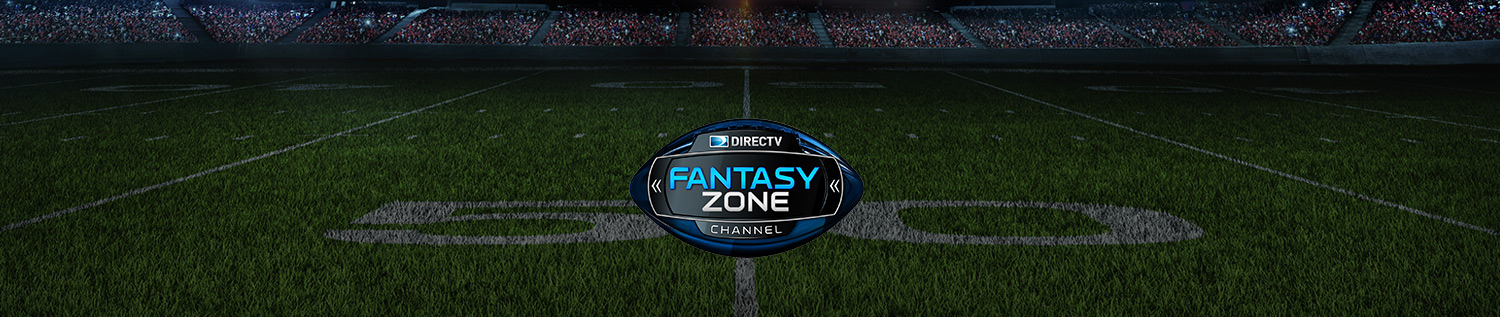
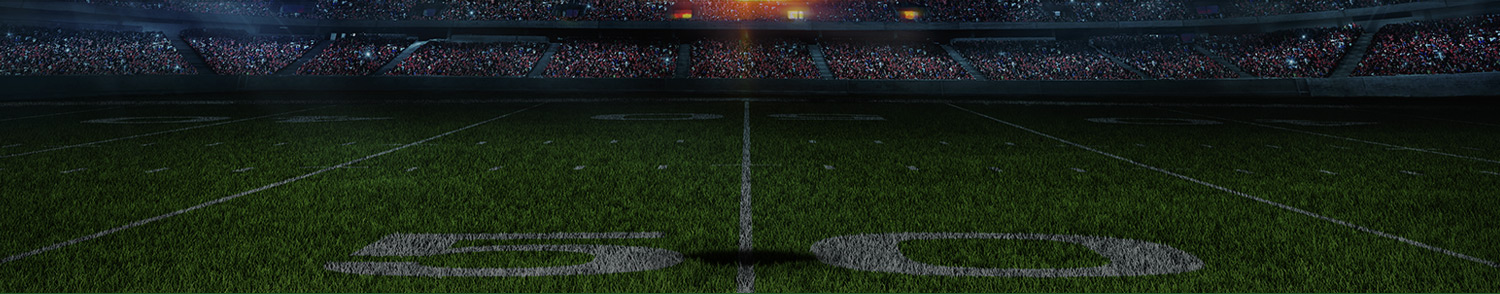
added navigation

diff --git a/public/css/style.css b/public/css/style.css
@@ -5,6 +5,17 @@ body { margin: 0; padding: 0; background-color: #1c5726; color: #fff; font-famil
 
 html * { outline: none; }
 
+
+@-webkit-keyframes fadeIn {
+	0%   { opacity: 0; }
+	100% { opacity: 1; }
+}
+
+@keyframes fadeIn {
+	0%   { opacity: 0; }
+	100% { opacity: 1; }
+}
+
 .row { max-width: 75.0em !important; }
 
 h3 { padding: 20px 0; color: #e5e5e5; text-transform: uppercase; font: 20px arial; border-bottom: 1px #376540 dotted; }
@@ -19,18 +30,19 @@ input[type="text"], input[type="text"]:focus  {
 
 /*Navigation */
 /*#nav img { width: 100%; max-height: 320px; }*/
-#nav { background: url(images/nav_lg.jpg) no-repeat fixed 50% 0; background-size: cover; }
+#nav { background: #1f1f1f url(../images/nav_lg.jpg) no-repeat fixed 50% 0; background-size: contain; }
+#nav div { background-color: #1f1f1f; opacity: 0; }
 
 /* Home */
 #home { text-align: center; background-color: #1c5726; padding: 4% 0 8%; }
-#home > img { width: 40%; }
-#home .text { padding: 4% 16%; color: #fff; font: 18px/27px arial; }
+#home .t-img img { width: auto; }
+#home .text { padding: 2% 16%; color: #fff; font: 18px/27px arial; }
 #home .link { color: #f2b217; text-transform: uppercase; font: bold 16px arial; }
 
 /* Smack Talk */
-#accordion { background-color: #0f2e14; display: none; }
+#accordion { background-color: #0a3d14; display: none; }
 #accordion h3 { padding: 2% 28%; margin: 0; }
-#step-1, #step-2, #step-3 { padding: 20px 28% 20px; margin: 0; height: 70%; }
+#step-1, #step-2, #step-3 { padding: 20px 28% 20px; margin: 0; height: 78%; }
 
 #step-1 { padding-left: 32%; }
 #step-1 .btn-name { background-color: #f2b217; color: #0a3d14; text-transform: uppercase; padding: 20px; border: 0; font-size: 18px; width: 272px; }
